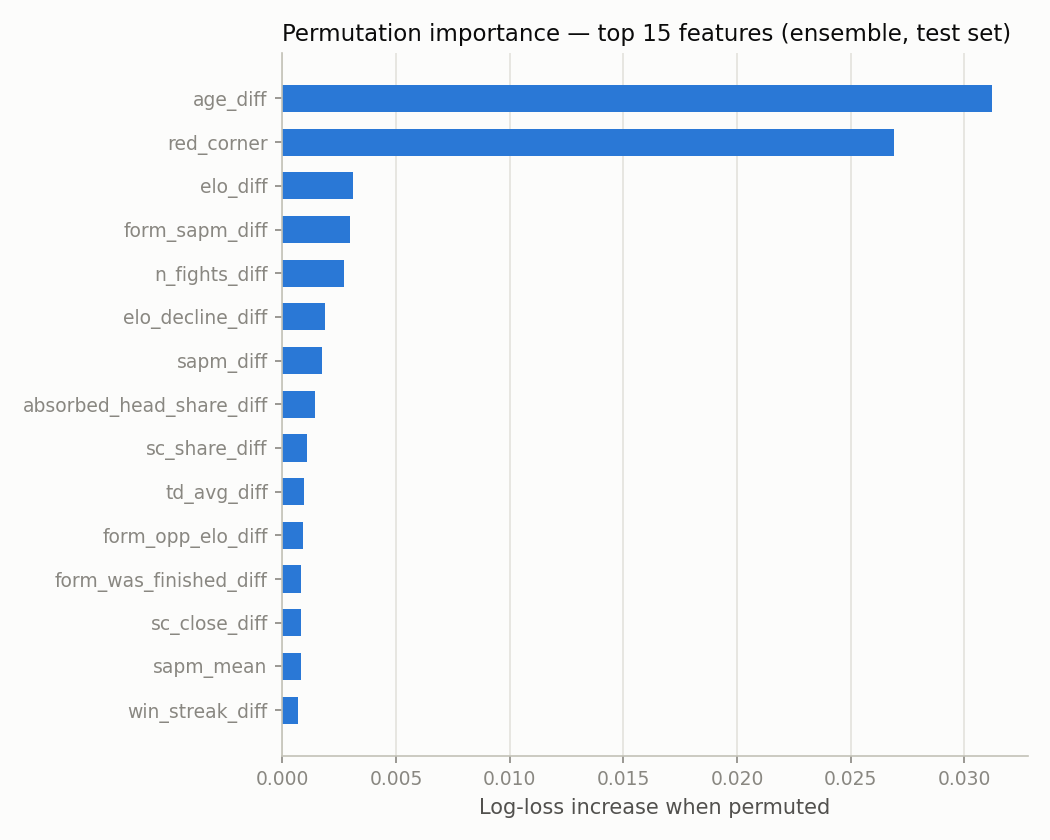
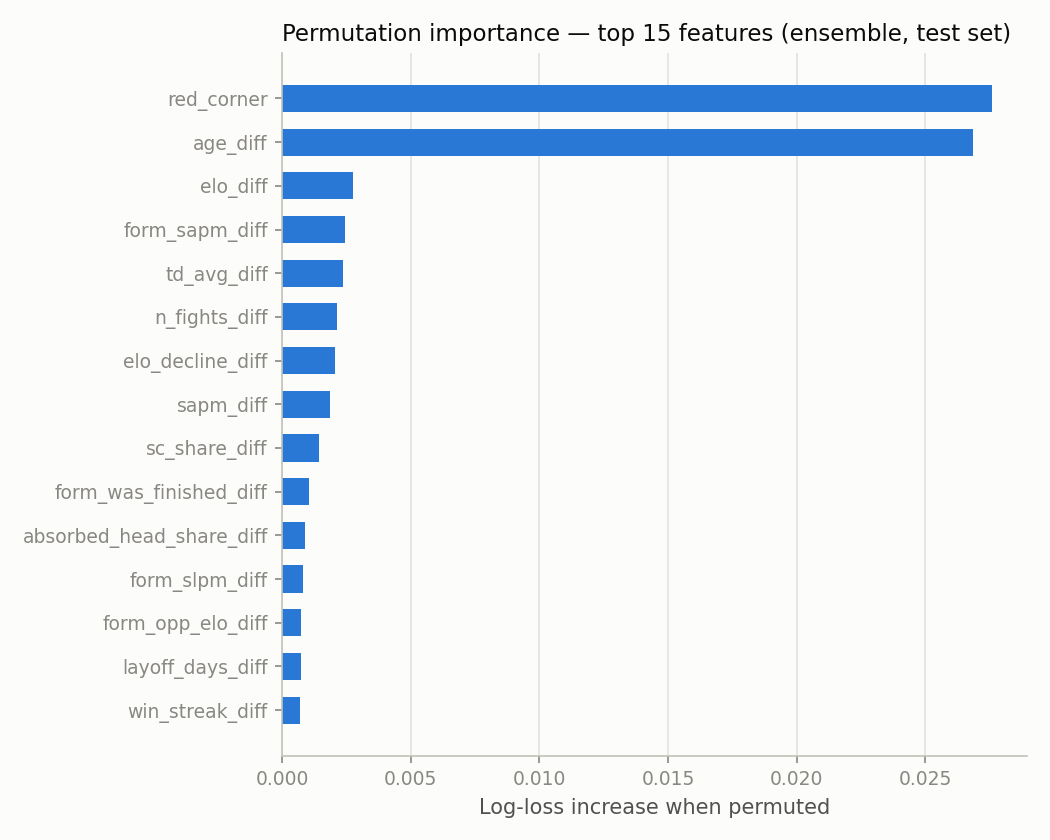
Validation rerun on merged leak-free code: honest headline regenerated
Claude-Session: https://claude.ai/code/session_01RMgLwosyU9fnVycvRvg6uX

diff --git a/report.md b/report.md
@@ -2,7 +2,7 @@
 
 Generated by `train_report.py`. Seeds fixed (42); strict temporal validation.
 
-**Data:** 8264 UFC fights 2003-02-28 to 2026-08-08,
+**Data:** 8302 UFC fights 2003-02-28 to 2026-08-29,
 102 features computed strictly as-of fight date by replaying career
 histories (`build_features.py`): records, Elo (finish-weighted), per-minute
 striking/grappling rates, strike-target and position mixes, recent-form windows
@@ -10,39 +10,39 @@ striking/grappling rates, strike-target and position mixes, recent-form windows
 decline, layoffs, weight-class changes), rankings, and physical attributes.
 
 **Split:** train ≤ 2023-06-03 (6650 fights), test after
-(1614 fights). LightGBM (best (31, 0.03, 20), cv 0.6536) and XGBoost
-(best (4, 0.03, 5, 0.8, 0.6, 1), cv 0.6556) tuned with 4-fold expanding-window CV inside
+(1652 fights). LightGBM (best (15, 0.03, 60), cv 0.6539) and XGBoost
+(best (4, 0.03, 5, 0.8, 0.6, 1), cv 0.6549) tuned with 4-fold expanding-window CV inside
 the train period. The stacking combiner, isotonic calibrator, and market blend
 were all fitted on out-of-fold CV predictions only. The LightGBM component
 is a 5-seed bag (adopted Phase 9: CV logloss 0.6571 -> 0.6535). Stack weights
-(LGB, XGB, logistic): [0.56, 0.15, 0.17].
+(LGB, XGB, logistic): [0.51, 0.2, 0.14].
 
-## Model comparison — full test set (1614 fights)
+## Model comparison — full test set (1652 fights)
 
 | Predictor | n | Accuracy | Log loss | Brier | ECE |
 |---|---|---|---|---|---|
-| Stacked ensemble (LGB+XGB+logistic) | 1614 | 0.629 | 0.641 | 0.225 | 0.023 |
-| Ensemble + isotonic | 1614 | 0.628 | 0.647 | 0.227 | 0.027 |
-| LightGBM | 1614 | 0.628 | 0.643 | 0.225 | 0.031 |
-| XGBoost | 1614 | 0.628 | 0.644 | 0.226 | 0.034 |
-| Logistic regression (full features) | 1614 | 0.613 | 0.648 | 0.229 | 0.052 |
-| Elo only (logistic) | 1614 | 0.569 | 0.674 | 0.241 | 0.050 |
+| Stacked ensemble (LGB+XGB+logistic) | 1652 | 0.630 | 0.642 | 0.225 | 0.023 |
+| Ensemble + isotonic | 1652 | 0.630 | 0.643 | 0.226 | 0.047 |
+| LightGBM | 1652 | 0.630 | 0.643 | 0.225 | 0.026 |
+| XGBoost | 1652 | 0.630 | 0.643 | 0.226 | 0.029 |
+| Logistic regression (full features) | 1652 | 0.613 | 0.649 | 0.229 | 0.052 |
+| Elo only (logistic) | 1652 | 0.569 | 0.674 | 0.241 | 0.049 |
 
 ## The real benchmark — vig-removed closing odds (1182 test fights with odds)
 
 | Predictor | n | Accuracy | Log loss | Brier | ECE |
 |---|---|---|---|---|---|
 | Market (no-vig closing odds) | 1182 | 0.702 | 0.582 | 0.199 | 0.033 |
-| Stacked ensemble | 1182 | 0.640 | 0.631 | 0.220 | 0.030 |
-| Blend: market + model | 1182 | 0.704 | 0.577 | 0.197 | 0.025 | logit blend, model coef=+0.295
+| Stacked ensemble | 1182 | 0.646 | 0.631 | 0.220 | 0.035 |
+| Blend: market + model | 1182 | 0.705 | 0.577 | 0.197 | 0.024 | logit blend, model coef=+0.289
 
 **Does the model beat the market?** No. The market's log loss (0.582) beats the model's (0.631).
 
 **Does the model add information beyond the market?** Yes —
 blending model with market gives log loss 0.577 vs 0.582 for the
 market alone. Paired bootstrap on the log-loss difference (market − blend,
-10,000 resamples): 95% CI [+0.0006, +0.0093], blend better in
-98.7% of resamples.
+10,000 resamples): 95% CI [+0.0009, +0.0095], blend better in
+99.1% of resamples.
 
 This is the expected result for public pre-fight data: closing odds aggregate
 sharp bettors' information (injuries, camp changes, weight-cut issues, insider
@@ -57,13 +57,13 @@ the training-set class frequencies:
 
 | Target | Model | Baseline |
 |---|---|---|
-| 6-way outcome log loss | 1.592 | 1.713 (freq) — per-class isotonic REJECTED (2.041) |
-| 6-way LL, method-odds subset (n=1105) — model / blend w=0.8 | 1.527 | 1.582 (model alone) |
-| 6-way outcome top-1 accuracy | 0.345 | 0.242 |
-| Goes the distance — Brier (dedicated model) | 0.238 | 0.233 (6-way-derived) |
-| Goes the distance — accuracy | 0.600 | 0.503 (majority class) |
-| Under 2.5 rounds (3R fights) — Brier | 0.241 | 0.248 (predict base rate) |
-| Fighter sig over 24.5 — Brier (duration-aware) | 0.218 | 0.232 (base rate) |
+| 6-way outcome log loss | 1.598 | 1.715 (freq) — per-class isotonic REJECTED (2.013) |
+| 6-way LL, method-odds subset (n=1105) — model / blend w=0.9 | 1.531 | 1.584 (model alone) |
+| 6-way outcome top-1 accuracy | 0.339 | 0.239 |
+| Goes the distance — Brier (dedicated model) | 0.245 | 0.235 (6-way-derived) |
+| Goes the distance — accuracy | 0.593 | 0.503 (majority class) |
+| Under 2.5 rounds (3R fights) — Brier | 0.236 | 0.249 (predict base rate) |
+| Fighter sig over 24.5 — Brier (duration-aware) | 0.219 | 0.232 (base rate) |
 | Fighter td over 0.5 — Brier (duration-aware) | 0.219 | 0.245 (base rate) |
 | Total takedowns — MAE | 1.67 | 1.81 (train mean) |
 
@@ -75,7 +75,7 @@ and prop markets carry roughly twice the vig of moneylines.
 
 ![Reliability diagram](plots/reliability.png)
 
-ECE (10 equal-count bins): model 0.030, market 0.033.
+ECE (10 equal-count bins): model 0.035, market 0.033.
 Isotonic calibration is reported for completeness; the raw ensemble is already
 close to calibrated.
 
@@ -86,16 +86,16 @@ close to calibrated.
 Top 10 by permutation importance (mean log-loss increase over 3 shuffles,
 through the full ensemble):
 
-- `age_diff`: +0.0312
-- `red_corner`: +0.0269
-- `elo_diff`: +0.0031
-- `form_sapm_diff`: +0.0030
-- `n_fights_diff`: +0.0027
-- `elo_decline_diff`: +0.0019
-- `sapm_diff`: +0.0018
-- `absorbed_head_share_diff`: +0.0015
-- `sc_share_diff`: +0.0011
-- `td_avg_diff`: +0.0010
+- `red_corner`: +0.0276
+- `age_diff`: +0.0268
+- `elo_diff`: +0.0027
+- `form_sapm_diff`: +0.0024
+- `td_avg_diff`: +0.0024
+- `n_fights_diff`: +0.0021
+- `elo_decline_diff`: +0.0021
+- `sapm_diff`: +0.0019
+- `sc_share_diff`: +0.0014
+- `form_was_finished_diff`: +0.0010
 
 ## Negative results (tried and rejected)
 
@@ -169,7 +169,7 @@ tau=5y improved CV by only 0.0017, under the pre-registered 0.002 gate).
   fighter's UFC record. ESPN's totals are CURRENT, so only this static
   pre-UFC delta is used — the current total would leak. 98% of fighters
   matched; the rest get 0-0. Elo still starts at 1500 on UFC debut.
-- Odds are closing odds from the Ultimate UFC Dataset (1182/1614
+- Odds are closing odds from the Ultimate UFC Dataset (1182/1652
   test fights matched); fights without odds are excluded only from market rows.
 - Rankings exist only for ranked fighters and only from 2013 (when UFC rankings
   began); missing values are left as NaN for the tree models.
